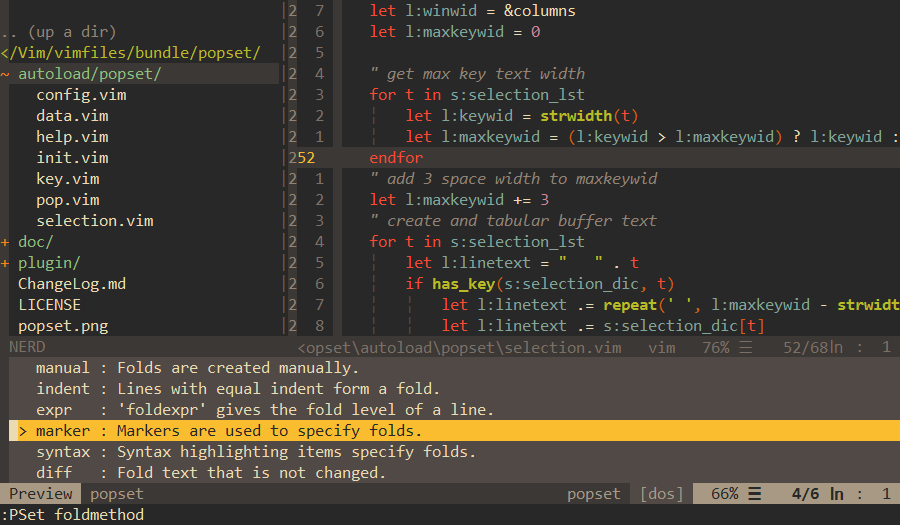
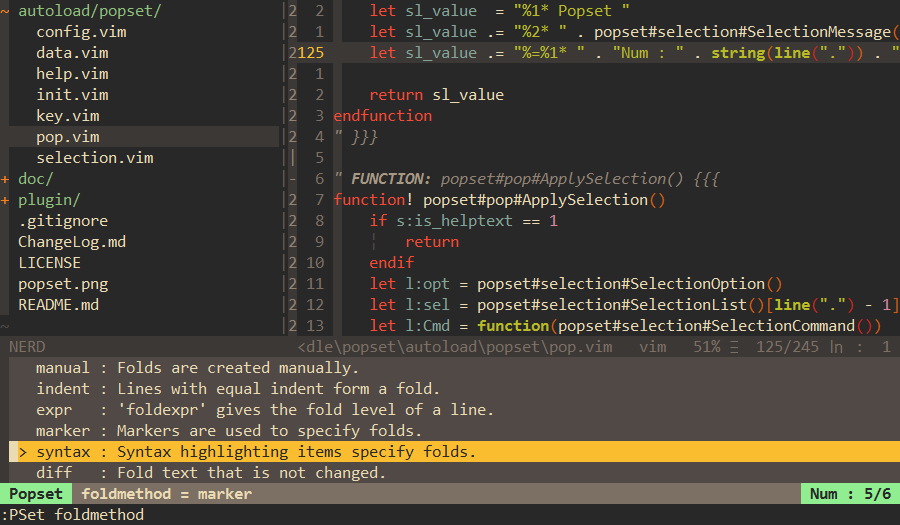
20170916 - v0.2.20: Update popset.png

diff --git a/ChangeLog.md b/ChangeLog.md
@@ -1,6 +1,9 @@
 
 # ChangeLog 
 
+## 20170916 - v0.2.20
+ - Update popset.png
+
 ## 20170916 - v0.2.19
  - Add statusline
 
